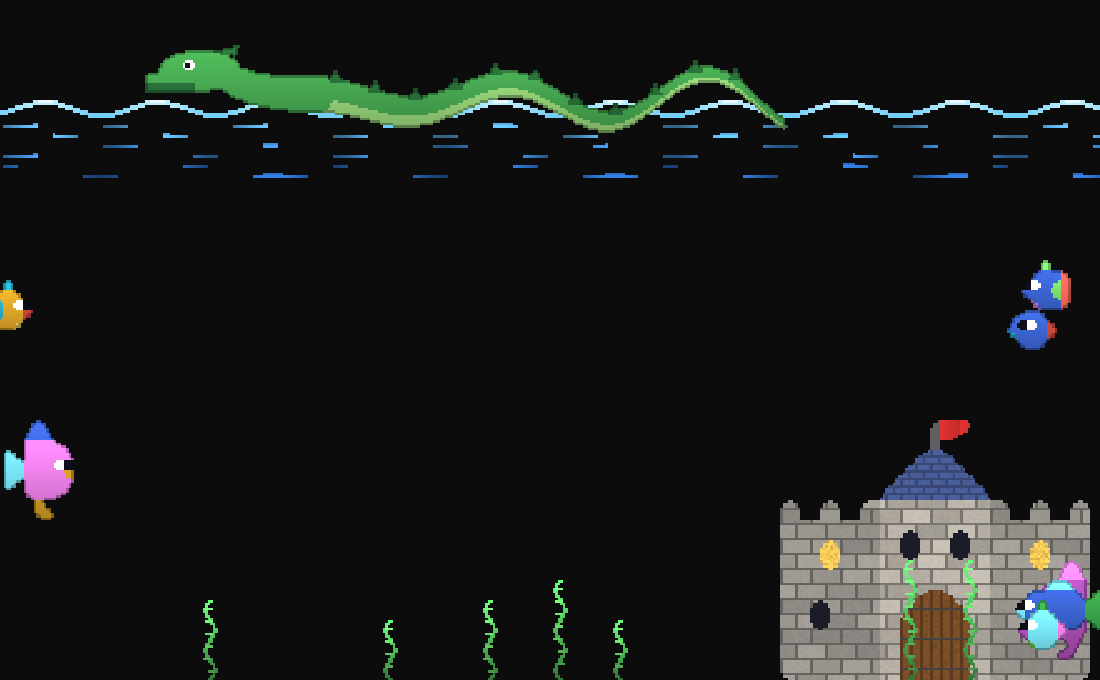
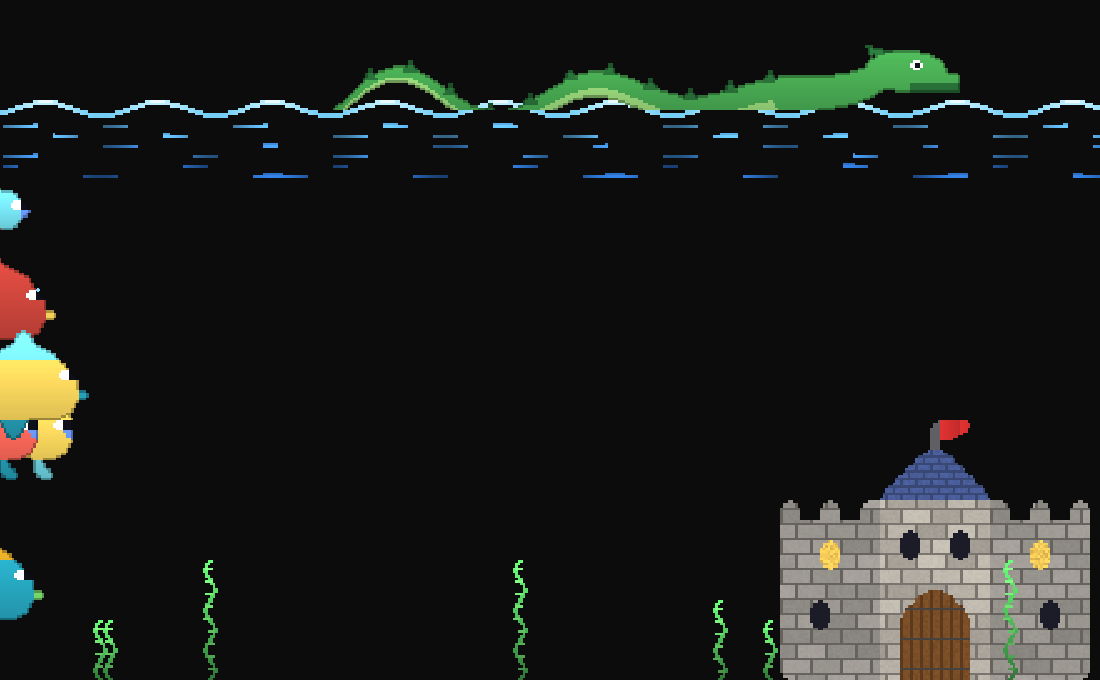
fix: hide the sea monster's body below the water in pixel modes
The pixel-art monster drew the whole serpent, troughs included, in front of
the water surface. Clip every row below the surface, so only the humps, the
neck and the head come out of the water, like the ASCII art.

diff --git a/src/pixel_art/creatures.rs b/src/pixel_art/creatures.rs
@@ -198,9 +198,16 @@ pub fn whale(res: Res) -> Vec<PixFrame> {
 /// its 4 ASCII frames).
 pub const MONSTER_FRAMES: usize = 16;
 
+/// The water surface inside the sea monster's frame, in low-resolution pixel
+/// rows from the top. The monster swims at row 2 and the surface (water line
+/// 0) is at row 5, i.e. art rows 6-7; 7 is the middle of the rolling wave.
+/// Everything from this row down is underwater and not drawn.
+pub const MONSTER_SURFACE: usize = 7;
+
 /// Sea monster frame `frame` of [`MONSTER_FRAMES`], 66 x 10: a serpent whose
 /// body swims in a sine wave travelling from the neck to the tail, swinging
-/// wider towards the tail; the head rides gently above the water.
+/// wider towards the tail; only the humps of the body come out of the water
+/// (below [`MONSTER_SURFACE`] it is hidden), and the head rides gently above.
 pub fn monster(frame: usize, res: Res) -> PixFrame {
     let green = (70, 165, 80);
     let belly = (150, 210, 120);
@@ -270,7 +277,14 @@ pub fn monster(frame: usize, res: Res) -> PixFrame {
         p.dot(61, (head_y - 1.0) as i32, WHITE);
         p.dot(62, (head_y - 1.0) as i32, BLACK);
     }
-    finish(p.f)
+    // cut after the outline, so the body enters the water without an edge
+    let mut f = finish(p.f);
+    for y in (MONSTER_SURFACE * res.scale()).min(f.height)..f.height {
+        for x in 0..f.width {
+            f.set(x, y, None);
+        }
+    }
+    f
 }
 
 /// 34 x 28. Colors come from the fish's palette; the spots sit where the

diff --git a/src/pixel_art/mod.rs b/src/pixel_art/mod.rs
@@ -451,6 +451,23 @@ mod tests {
     }
 
     #[test]
+    fn monster_body_stays_above_the_water() {
+        use crate::pixel_art::creatures::MONSTER_SURFACE;
+        for res in [Res::Low, Res::High] {
+            let surface = MONSTER_SURFACE * res.scale();
+            for k in 0..MONSTER_FRAMES {
+                let f = monster(k, res);
+                let row = |y| (0..f.width).filter(|&x| f.get(x, y).is_some()).count();
+                assert!(
+                    (surface..f.height).all(|y| row(y) == 0),
+                    "frame {k} {res:?}: pixels under the water"
+                );
+                assert!(row(surface - 1) > 0, "frame {k} {res:?}: humps reach the surface");
+            }
+        }
+    }
+
+    #[test]
     fn waterline_keeps_gaps_transparent() {
         for res in [Res::Low, Res::High] {
             let s = res.scale();

diff --git a/src/objects/random.rs b/src/objects/random.rs
@@ -181,6 +181,7 @@ fn add_monster(anim: &mut Animation) {
                     .collect()
             })
             .pixel_rate((MONSTER_FRAMES / 4) as f64)
+            // creatures::MONSTER_SURFACE assumes this row: keep them in sync
             .at(x, 2.0, depth::WATER_GAP[2])
             .speed(speed, 0.0, 0.0, 0.25)
             .die_offscreen()
